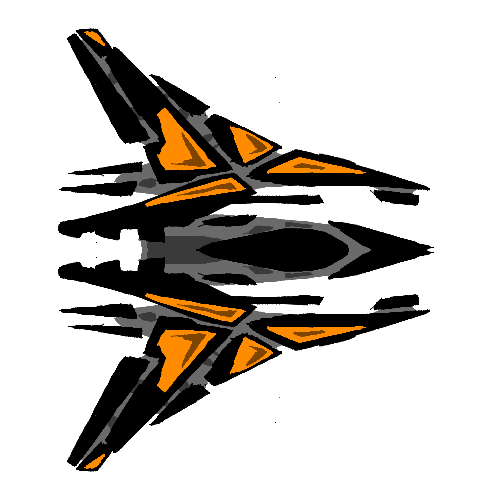
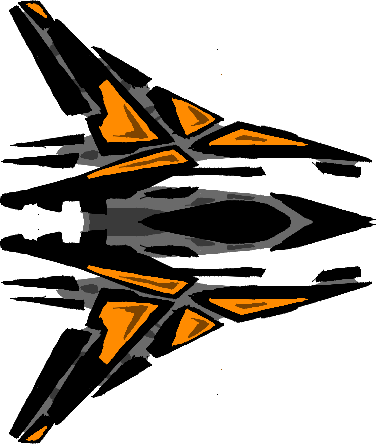
Reduced image dimensions

diff --git a/space/index.html b/space/index.html
@@ -45,7 +45,7 @@
             function preload() {
 
                 game.load.bitmapFont('font', './fonts/font.png', './fonts/font.fnt');
-                game.load.spritesheet('spaceship', './assets/spaceship-1.png', 500, 500, 1);
+                game.load.spritesheet('spaceship', './assets/spaceship-1.png', 378, 445, 1);
                 game.load.spritesheet('enemy', './assets/enemy.png', 907, 907, 1);
 
                 game.physics.setBoundsToWorld();
@@ -190,7 +190,7 @@
             }
 
             function render() {
-                // game.debug.bodyInfo(spaceship, 16, 24);
+                game.debug.bodyInfo(spaceship, 16, 24);
             }
         };
     </script>
